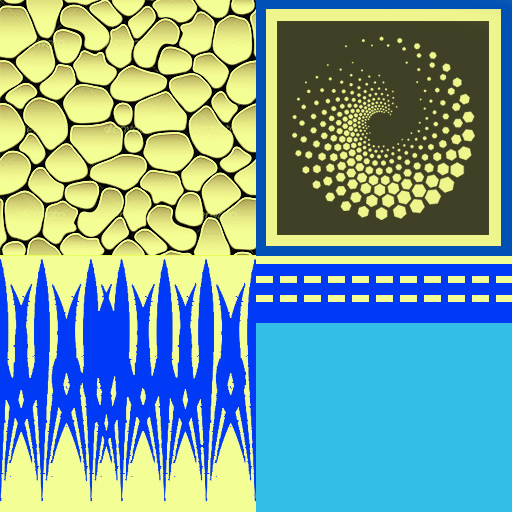
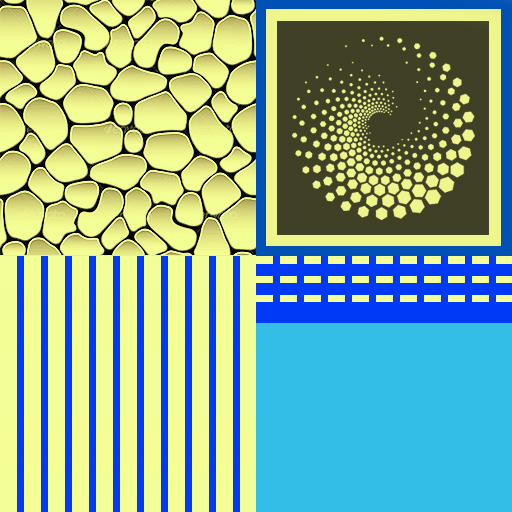
[ch05]process

diff --git a/src/chapter05/src/Entities/paramElems/geomGallery.js b/src/chapter05/src/Entities/paramElems/geomGallery.js
@@ -22,15 +22,7 @@ const transformArr = (arr, x = 0, y = 0, z = 0, r = 0) => {
 }
 
 const createFace = (v1, v2, v3, v4) => [...v1, ...v2, ...v3, ...v1, ...v3, ...v4]
-const createUv = () => [
-    0, .5,
-    .5, .5,
-    .5, 0,
-
-    0, .5,
-    .5, 0,
-    0, 0,
-]
+const createUv = (v1, v2, v3, v4) => [...v1, ...v2, ...v3, ...v1, ...v3, ...v4]
 const fillColorFace = c => [...c, ...c, ...c, ...c, ...c, ...c]
 
 const createFaceWithSquare = (v1, v2, v3, v4) => {
@@ -103,6 +95,7 @@ const createTrunk = ({
 
     const vert = []
     const col = []
+    const uv = []
 
 
 
@@ -116,6 +109,12 @@ const createTrunk = ({
             )
         )
         col.push(...fillColorFace(color1))
+        uv.push(...createUv(
+            [0, .5],
+            [.5, .5],
+            [.5, 1],
+            [0, 1],
+        ))
     } else {
         for (let i = 0; i < arrDividers.length; ++i) {
             /** column ***/
@@ -128,6 +127,38 @@ const createTrunk = ({
                 )
             )
             col.push(...fillColorFaceWithSquare(color1, color2))
+            uv.push(
+                ...createUv(
+                    [.5, .5],
+                    [1, .5],
+                    [1, 1],
+                    [.5, 1],
+                ), 
+                ...createUv(
+                    [0, .5],
+                    [.5, .5],
+                    [.5, 1],
+                    [0, 1],
+                ), 
+                ...createUv(
+                    [0, .5],
+                    [.5, .5],
+                    [.5, 1],
+                    [0, 1],
+                ), 
+                ...createUv(
+                    [0, .5],
+                    [.5, .5],
+                    [.5, 1],
+                    [0, 1],
+                ), 
+                ...createUv(
+                    [0, .5],
+                    [.5, .5],
+                    [.5, 1],
+                    [0, 1],
+                )
+            )
             /** column -> divider */
             vert.push(
                 ...createFace(
@@ -138,6 +169,12 @@ const createTrunk = ({
                 )
             )
             col.push(...fillColorFace(color2))
+            uv.push(...createUv(
+                [0, .5],
+                [.5, .5],
+                [.5, 1],
+                [0, 1],
+            ))
             /** divider */
             vert.push(
                 ...createFace(
@@ -148,6 +185,12 @@ const createTrunk = ({
                 )
             )
             col.push(...fillColorFace(color1))
+            uv.push(...createUv(
+                [0, .5],
+                [.5, .5],
+                [.5, 1],
+                [0, 1],
+            ))
             /** divider -> column */
             vert.push(
                 ...createFace(
@@ -158,6 +201,12 @@ const createTrunk = ({
                 )
             )
             col.push(...fillColorFace(color2))
+            uv.push(...createUv(
+                [0, .5],
+                [.5, .5],
+                [.5, 1],
+                [0, 1],
+            ))
         }
 
         /** last segment */
@@ -170,9 +219,41 @@ const createTrunk = ({
             )
         )
         col.push(...fillColorFaceWithSquare(color2, color1))
+        uv.push(
+            ...createUv(
+                [0, .5],
+                [.5, .5],
+                [.5, 1],
+                [0, 1],
+            ), 
+            ...createUv(
+                [0, .5],
+                [.5, .5],
+                [.5, 1],
+                [0, 1],
+            ), 
+            ...createUv(
+                [0, .5],
+                [.5, .5],
+                [.5, 1],
+                [0, 1],
+            ), 
+            ...createUv(
+                [0, .5],
+                [.5, .5],
+                [.5, 1],
+                [0, 1],
+            ), 
+            ...createUv(
+                [0, .5],
+                [.5, .5],
+                [.5, 1],
+                [0, 1],
+            )
+        )
     }
 
-    return { vert, col  }
+    return { vert, col, uv }
 }
 
 
@@ -187,10 +268,10 @@ const createColumn = ({
 
     hTrunk = 30,
     rTrunk = 3,
-    color1 = [0, 0, 1],
-    color2 = [0, 1, 1],
+    color1 = [.2, .2, .2],
+    color2 = [1, 1, 1],
 }) => {
-    /** base **************/
+    /** BASE **************/
     const base = [...createFace(
         [-rBase, 0, rBase,],
         [rBase, 0, rBase],
@@ -198,6 +279,12 @@ const createColumn = ({
         [-rBase, hBase, rBase],
     )]
     const colorBase = [...fillColorFace(color1)]
+    const uv1 = createUv(
+        [.5, 0],
+        [1, 0],
+        [1, .5],
+        [.5, .5],
+    )
 
 
     const baseToTrunk = [...createFace(
@@ -207,19 +294,25 @@ const createColumn = ({
         [-rTrunk, hBase + hBaseToTrunk, rTrunk],
     )]
     const colorBaseToTrunk = [...fillColorFace(color2)]
-
+    const uvBT = createUv(
+        [0, 0],
+        [.5, 0],
+        [.5, .5],
+        [0, .5],
+    )
 
 
     /** TRUNK ************************/
     let h = hBase + hBaseToTrunk
-    const { vert, col } = createTrunk({
+    const { vert, col, uv } = createTrunk({
         h: hBase + hBaseToTrunk,
         h2: hTrunk + hBase + hBaseToTrunk,
         r: rTrunk,
     })
+    const uvT = uv
 
 
-    /** TRUNK TO CAPITAL **************/
+    /** CAPITAL **************/
     h = h + hTrunk
     const trunkToCapital = [...createFace(
         [-rTrunk, h, rTrunk],
@@ -227,8 +320,6 @@ const createColumn = ({
         [rCapital, h + hTrunkToCapital, rCapital],
         [-rCapital, h + hTrunkToCapital, rCapital],
     )]
-
-    /** CAPITAL *********************/
     h = h + hTrunkToCapital
     const capital = [...createFace(
         [-rCapital, h, rCapital],
@@ -236,6 +327,12 @@ const createColumn = ({
         [rCapital, h + hCapital, rCapital],
         [-rCapital, h + hCapital, rCapital],
     )]
+    const uvC = createUv(
+        [.5, .5],
+        [1, .5],
+        [1, 0],
+        [.5, 0],
+    )
 
 
     const frontVert = [
@@ -252,12 +349,14 @@ const createColumn = ({
         ...colorBaseToTrunk,
         ...colorBase,
     ]
-    const uv = [
-        ...createUv(),
-        ...createUv(),
-        ...createUv(),
-        ...createUv(),
-        ...createUv(),
+
+    console.log(uvT.length / 2, vert.length / 3)
+    const frontUV = [
+        ...uv1,
+        ...uvBT,
+        ...uvT,
+        ...uv1,
+        ...uvC,
     ]
 
     /** left ************************/
@@ -285,10 +384,10 @@ const createColumn = ({
         ...frontColors,
     ]
     const uvResult = [
-        ...uv,
-        ...uv,
-        ...uv,
-        ...uv,
+        ...frontUV,
+        ...frontUV,
+        ...frontUV,
+        ...frontUV,
     ]
 
     return {

diff --git a/src/_CORE/entities/createStudio_02.js b/src/_CORE/entities/createStudio_02.js
@@ -19,7 +19,6 @@ export class Studio {
         rendererCon.canvas = document.getElementById(canId)
 
         this._renderer = new THREE.WebGLRenderer(rendererCon)
-        console.log(clearColor)
         this._renderer.setClearColor(clearColor)
         this._renderer.setPixelRatio(window.devicePixelRatio)
         this._renderer.setSize(window.innerWidth, window.innerHeight)
@@ -28,8 +27,6 @@ export class Studio {
 
         {
             const { color, fogNear, fogFar, backgroundImgKey } = root.CONSTANTS.studioConfig.sceneEnvironment
-            console.log(color)
-
             //this._scene.background = assets[backgroundImgKey] || null
             //this._scene.fog = new THREE.Fog(color, fogNear, fogFar)
         }
@@ -38,7 +35,6 @@ export class Studio {
         this._lightA = null
         {
             const { color, strength } = amb
-            console.log(color)
             this._lightA = new THREE.AmbientLight( color, strength )
             this._scene.add( this._lightA )
         }

diff --git a/src/chapter05/src/Entities/paramElems/pentagramm.js b/src/chapter05/src/Entities/paramElems/pentagramm.js
@@ -1,5 +1,5 @@
 import * as THREE from 'three'
-import { boxGeom } from "./geomBoxTest";
+//ssimport { boxGeom } from "./geomBoxTest";
 import { createGeomGallery } from './geomGallery'
 
 const C1 = [.7, .7, .7]
@@ -21,10 +21,9 @@ const createGeom = () => {
 
     //const { vertices, colors } = boxGeom(...data)
     const { vertices, colors, uv } = createGeomGallery({})
-    geometry.setAttribute( 'position', new THREE.BufferAttribute( vertices, 3 ) );
-    geometry.setAttribute( 'color', new THREE.BufferAttribute( colors, 3 ) );
-    uv && geometry.setAttribute( 'uv', new THREE.BufferAttribute( uv, 2 ) );
-    console.log(geometry)
+    geometry.setAttribute('position', new THREE.BufferAttribute(vertices, 3))
+    geometry.setAttribute('color', new THREE.BufferAttribute( colors, 3 ))
+    uv && geometry.setAttribute('uv', new THREE.BufferAttribute( uv, 2 ))
     geometry.computeVertexNormals()
     return geometry;
 }

diff --git a/src/chapter05/src/actions/actions.js b/src/chapter05/src/actions/actions.js
@@ -74,8 +74,9 @@ export class actions {
         /** testPentagram ******************/
         //for (let i = 0; i < 15; ++i) {
             const p = createBoxPentagram(this._root)
-            p.rotation.y = Math.random() * Math.PI * 2
+            //p.rotation.y = Math.random() * Math.PI * 2
             p.position.set(0, -60, -20)
+            console.log('---------------', p)
             studio.addToScene(p)
         //}
 
@@ -307,7 +308,6 @@ const createManagerLevelTrash = root => {
     let arrTrash = []
 
     const trashGeom = new THREE.BoxGeometry(30, 50, 30)
-    console.log('!!!', trashGeom)
     const trashCollisionGeom = new THREE.BoxGeometry(45, 50, 45)  
     const trashMat = materials.wallVirtual
     const floorGeom = new THREE.PlaneGeometry(SIZE_QUADRANT, SIZE_QUADRANT)

diff --git a/src/chapter05/src/constants/constants_elements.js b/src/chapter05/src/constants/constants_elements.js
@@ -58,7 +58,7 @@ export const MATERIALS_CONFIG = {
             //color: 0x999999,
             emissive: 0x000000,
             map: 'mapParams',
-            bumpMap: 'mapVirtual',
+            bumpMap: 'mapParams',
             bumpScale: 3,
             envMap: 'skyBox',
             reflectivity: .5,

diff --git a/src/chapter05/src/Entities/paramElems/geomBoxTest.js b/src/chapter05/src/Entities/paramElems/geomBoxTest.js
@@ -1,5 +1,4 @@
 import { m4 } from '../../helpers/m4'
-console.log(m4)
 
 
 const createColumn = ({
